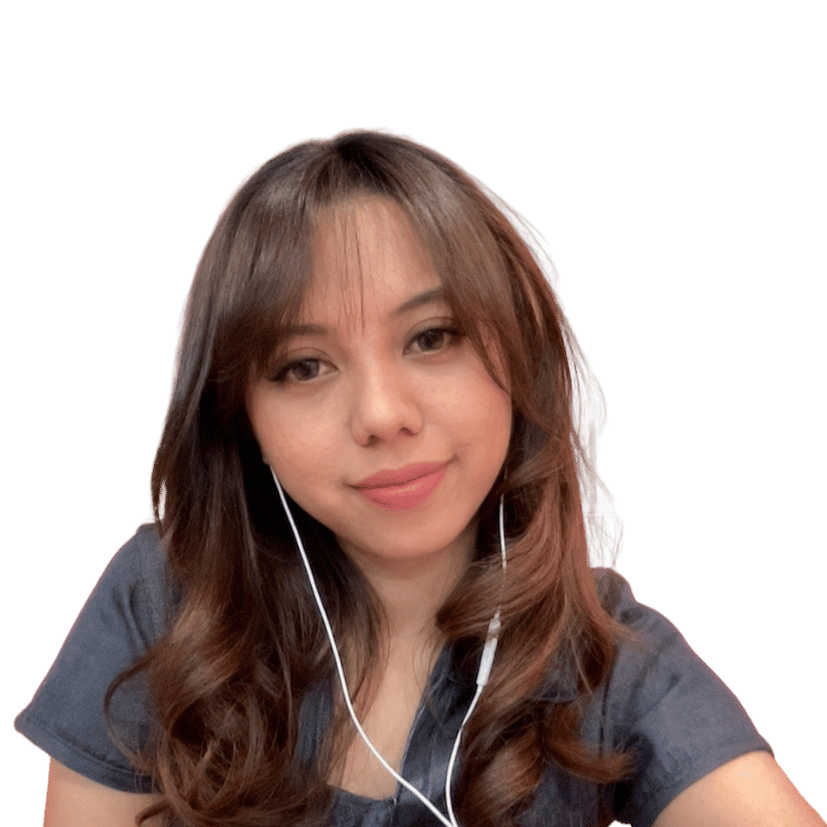
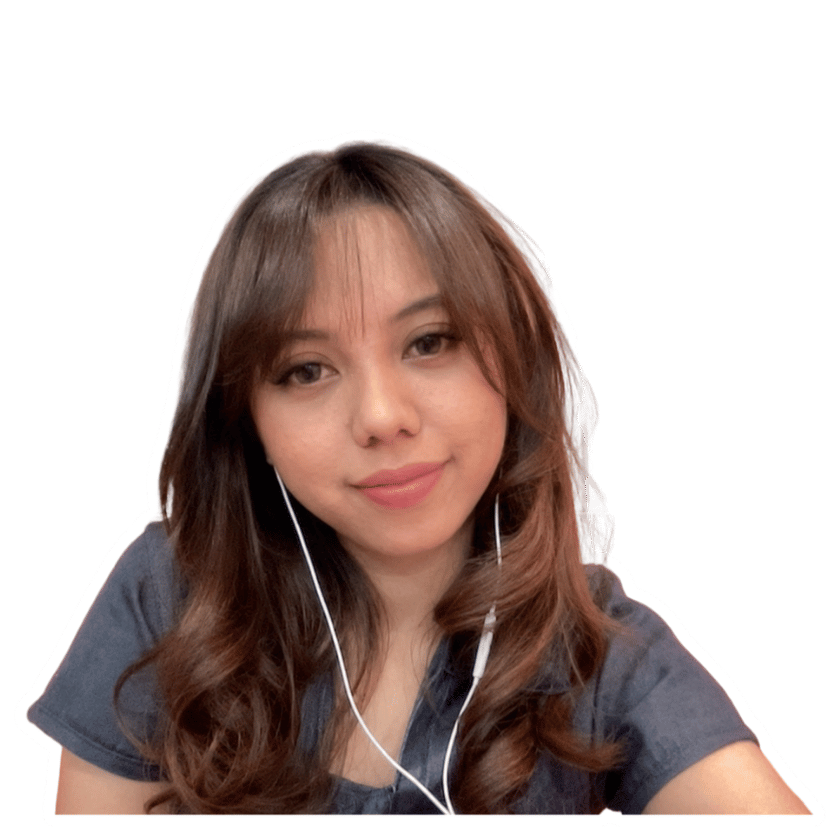
no frame

Changed region(s): [[0.0, 0.1511, 1.0, 1.0], [0.4534, 0.5744, 0.5139, 0.6046], [0.4837, 0.5139, 0.5139, 0.5441]]

diff --git a/pec/index.html b/pec/index.html
@@ -399,29 +399,14 @@
   .hero-gallery {
     position: relative;
     align-self: center;
-    border: 4px solid var(--ink);
-    border-radius: 22px;
-    background: var(--white);
-    box-shadow: 9px 10px 0 var(--ink);
+    border-radius: 0;
+    background: transparent;
     overflow: hidden;
     transform: rotate(-1.2deg);
   }
 
   .hero-gallery::before {
-    content: "Intip keseruan";
-    position: absolute;
-    left: 18px;
-    top: 16px;
-    z-index: 1;
-    border: 3px solid var(--ink);
-    border-radius: 999px;
-    background: var(--yellow);
-    box-shadow: 3px 4px 0 var(--ink);
-    color: var(--ink);
-    font-family: Fredoka, Poppins, Arial, sans-serif;
-    font-size: 0.82rem;
-    font-weight: 700;
-    padding: 7px 12px;
+    content: none;
   }
 
   .hero-gallery img {
@@ -818,12 +803,7 @@
   }
 
   .tutor-photo-wrap::before {
-    content: "";
-    position: absolute;
-    inset: 6px -6px -6px 6px;
-    border-radius: 50%;
-    background: var(--yellow);
-    border: 3px solid var(--ink);
+    content: none;
   }
 
   .tutor-photo {
@@ -831,9 +811,9 @@
     width: 100%;
     aspect-ratio: 1;
     display: block;
-    border: 4px solid var(--ink);
-    border-radius: 50%;
-    background: var(--white);
+    border: 0;
+    border-radius: 0;
+    background: transparent;
     object-fit: cover;
   }
 
